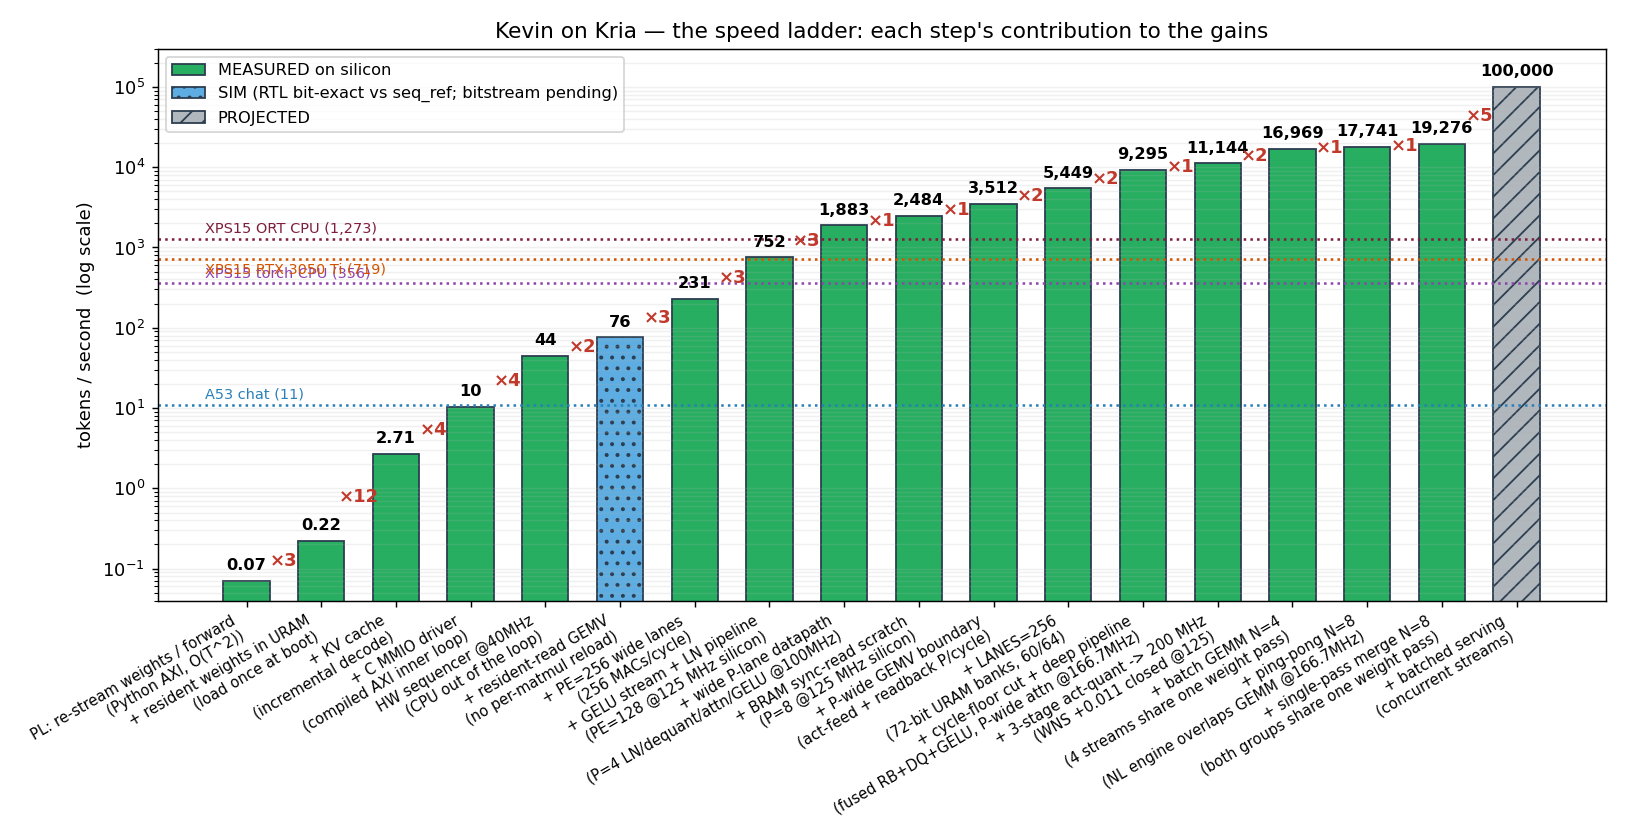
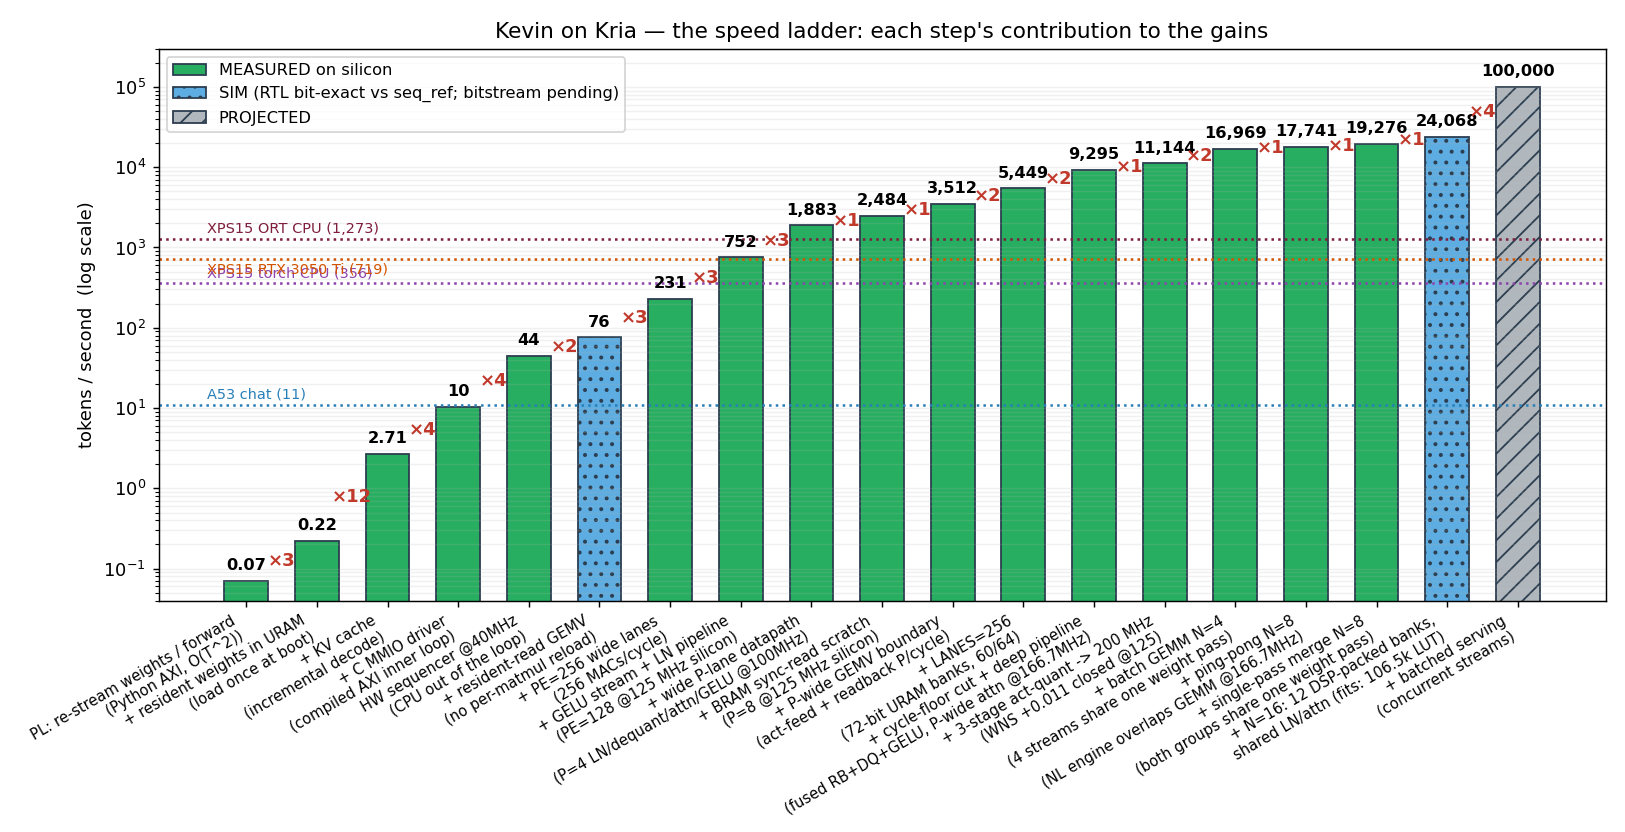
progress: N=16 shared-NL rung as SIM (24,068 @166.7; 16/16 bit-exact; bitstream building)

diff --git a/fabric/progress.py b/fabric/progress.py
@@ -55,6 +55,8 @@ LADDER = [
      "non-linear bubbles (75,157 cyc / 8 tokens; 8/8 bit-exact 3/3; 200 MHz fails)"),
     ("+ single-pass merge N=8\n(both groups share one weight pass)", 19275.6, "MEASURED",
      "the second weight pass (69,172 cyc / 8 tok @166.7; 8/8 bit-exact 3/3; 200 fails)"),
+    ("+ N=16: 12 DSP-packed banks,\nshared LN/attn (fits: 106.5k LUT)", 24068.0, "SIM",
+     "per-stream MAC fabric (110,791 cyc / 16 tok @166.7; 16/16 bit-exact; bitstream building)"),
     ("+ batched serving\n(concurrent streams)", 100000.0, "PROJECTED",
      "per-stage idle — overlap units across streams"),
 ]
